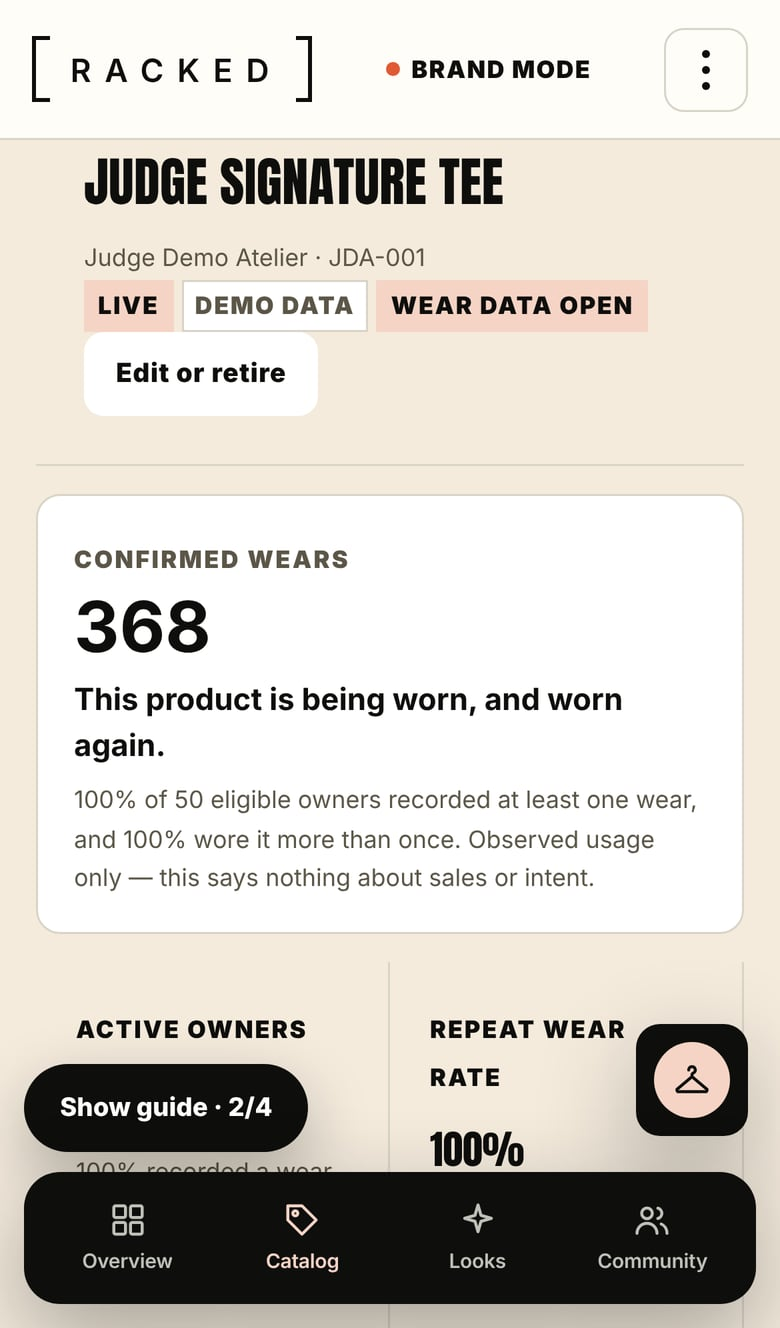
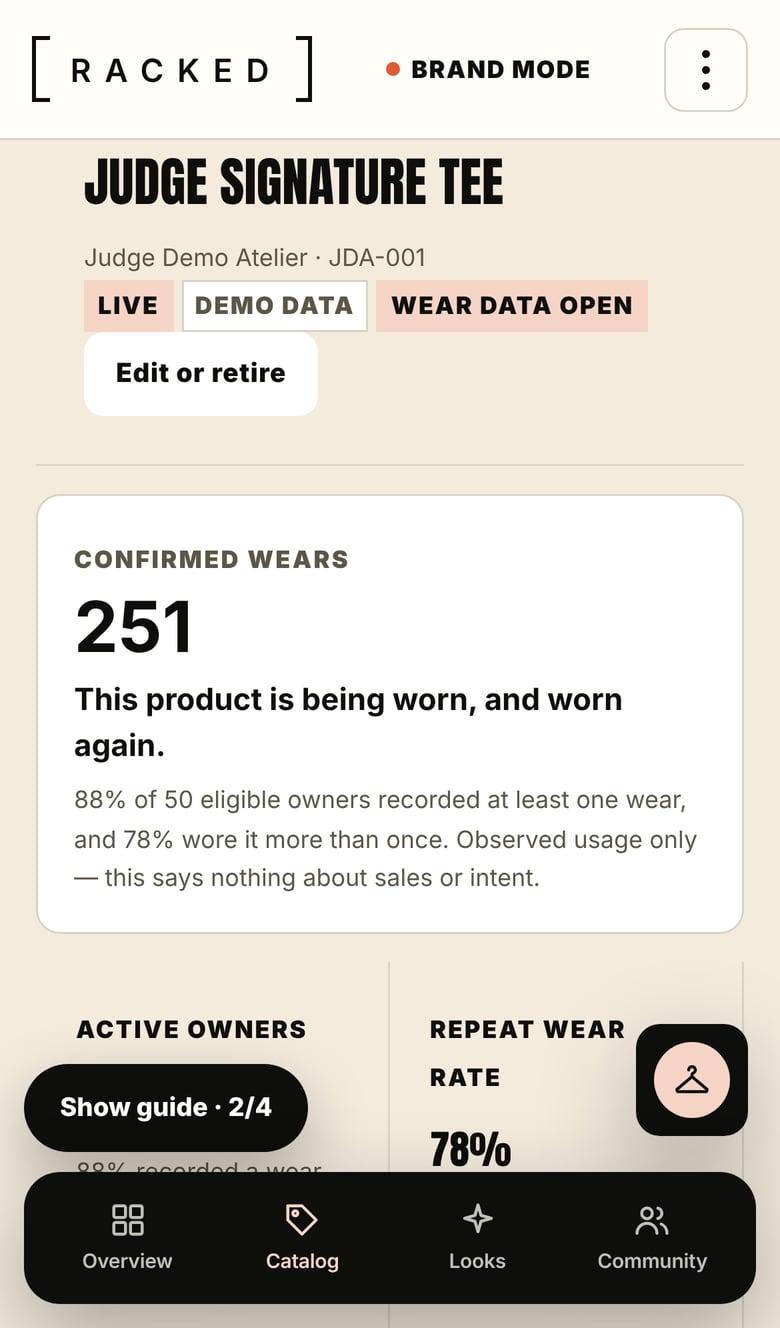
Demo tee reads like a real product; plain accuracy numbers for judges
- Seed: the released Judge Signature Tee no longer has every owner
  wearing it three or more times (100% active, 100% repeat). Its 50
  owners now split 6 never / 5 once / 9 two-three / 10 four-five /
  20 six or more: 88% active, 78% repeat, 251 confirmed wears. Every
  bucket holds at least 5 owners, so nothing is withheld, and the
  eight-week chart still clears the cell minimum on every weekday.
- Test: the released view, computed by the app's own release code,
  withholds nothing and reads 88% / 78%; the old "every owner wore it
  on three days" test now checks each wear is on its own day.
- JUDGES.md: accuracy as counts - 272 of the 293 photos the scan
  answered, of 300; the other 7 timed out to manual entry.
- Screenshot 3 retaken from the new seed; docs/judge-accounts.md
  describes the new spread.
- 1154 tests; coverage re-measured with test files excluded: 96.81%
  lines, 89.13% branches, 95.00% functions.

Claude-Session: https://claude.ai/code/session_014BCnoJTsgMvPRu3a3qyFiW

diff --git a/tests/judge-accounts.test.ts b/tests/judge-accounts.test.ts
@@ -10,7 +10,7 @@ import { rankCatalogCandidates, searchCatalog } from "../lib/catalog-match.ts";
 import { costPerWearLine } from "../lib/cost-per-wear.ts";
 import { matchBrandProduct } from "../lib/product-registry.ts";
 import { MINIMUM_COHORT_SIZE } from "../lib/privacy.ts";
-import { buildWearUsageAnalytics, MINIMUM_CELL_SIZE } from "../lib/metrics.ts";
+import { buildWearUsageAnalytics, MINIMUM_CELL_SIZE, releaseWearAnalytics } from "../lib/metrics.ts";
 import { JUDGE_CHART_RULE, judgeChartProblems, weeklyWearBuckets } from "../scripts/lib/judge-wear-window.mjs";
 import { JUDGE_PHOTO_DIR, JUDGE_PHOTO_SIZE, JUDGE_PHOTO_TYPE, judgePhoto, judgePhotoPath, productPhotoName } from "../scripts/lib/judge-photos.mjs";
 import type { BrandProductRegistration } from "../lib/platform-types.ts";
@@ -270,15 +270,19 @@ test("no seeded wear happens before its owner's account existed", () => {
   }
 });
 
-test("every owner of the released product has worn it on at least three different days", () => {
+test("every wear of the released product is on its own day, and most owners wear it", () => {
+  // Owners who never wore it are part of a believable cohort (see the realism test below); those who
+  // did each wore it on separate days, so a repeat wear is never two events on one date.
   const days = new Map<string, Set<string>>();
+  const events = new Map<string, number>();
   for (const wear of releasedWears) {
     const owner = String(wear.ownerPK);
     if (!days.has(owner)) days.set(owner, new Set());
     days.get(owner)!.add(String(wear.occurredAt).slice(0, 10));
+    events.set(owner, (events.get(owner) ?? 0) + 1);
   }
-  assert.equal(days.size, 50, "all fifty owners have wears");
-  for (const [owner, set] of days) assert.ok(set.size >= 3, `${owner} wore it on ${set.size} day(s)`);
+  assert.equal(days.size, 44, "44 of the 50 owners have worn it");
+  for (const [owner, set] of days) assert.equal(set.size, events.get(owner), `${owner} has two wears on one day`);
 });
 
 test("the chart helper buckets weeks exactly as the brand dashboard does", () => {
@@ -355,3 +359,20 @@ test("a plain dry run reads nothing, so it plans no deletions and needs no AWS",
   assert.match(seed, /ConditionExpression: "#tc = :yes"/, "every delete is conditional on testCohort");
 });
 
+
+test("the released product reads like a real one: not everyone wears it, and nothing is withheld", () => {
+  // Every seeded owner used to wear the tee three or more times, so the dashboard said 100% active
+  // and 100% repeat — a figure a judge reads as staged. The released view must look plausible and
+  // still release every figure: each wear bucket is empty or holds at least the minimum cell size.
+  const owners = items.filter((item) => item.GSI1PK === "PRODUCT#judge-product-released" && String(item.SK).startsWith("GARMENT#"));
+  const counts = owners.map((item) => Number(item.wearCount));
+  const dates = items.filter((item) => item.PK === "PRODUCT#judge-product-released" && String(item.SK).startsWith("WEAR#")).map((item) => String(item.occurredAt));
+  assert.equal(owners.length, 50);
+  assert.equal(counts.reduce((sum, value) => sum + value, 0), dates.length, "each wear count matches its events");
+  const released = releaseWearAnalytics(counts, dates, new Date(SEED_NOW));
+  assert.deepEqual(released.withheld, []);
+  assert.equal(released.engagementRate, 88);
+  assert.equal(released.repeatWearRate, 78);
+  for (const bucket of released.wearDistribution) assert.ok(bucket.owners === 0 || (bucket.owners ?? 0) >= MINIMUM_CELL_SIZE, bucket.label);
+  assert.ok(released.wearDistribution.every((bucket) => (bucket.owners ?? 0) > 0), "every bucket, including never worn, is represented");
+});

diff --git a/README.md b/README.md
@@ -13,7 +13,7 @@ I started Racked after seeing the consequences of clothing waste in Kenya. It wo
 
 | 1. Scan, then confirm | 2. Four owners: hidden | 3. Fifty owners: released |
 | :---: | :---: | :---: |
-| <img src="docs/images/scan-confirm.jpg" width="250" alt="Racked on a phone: one photo of a cream sherpa jacket becomes one proposed piece, with the heading 'Check each piece before it joins your closet' and an editable name."> | <img src="docs/images/brand-hidden-at-4-owners.jpg" width="250" alt="The brand view of Judge Limited Overshirt, tagged Too few owners, with a padlock and 'Not enough opted-in owners yet to say anything about wear.' No count is shown."> | <img src="docs/images/brand-released-at-50-owners.jpg" width="250" alt="The brand view of Judge Signature Tee, tagged Wear data open: 368 confirmed wears from 50 eligible owners."> |
+| <img src="docs/images/scan-confirm.jpg" width="250" alt="Racked on a phone: one photo of a cream sherpa jacket becomes one proposed piece, with the heading 'Check each piece before it joins your closet' and an editable name."> | <img src="docs/images/brand-hidden-at-4-owners.jpg" width="250" alt="The brand view of Judge Limited Overshirt, tagged Too few owners, with a padlock and 'Not enough opted-in owners yet to say anything about wear.' No count is shown."> | <img src="docs/images/brand-released-at-50-owners.jpg" width="250" alt="The brand view of Judge Signature Tee, tagged Wear data open: 251 confirmed wears; 88% of 50 eligible owners recorded a wear and 78% wore it more than once."> |
 | Nothing joins the wardrobe until the person checks it | Below 25 opted-in owners the brand sees nothing, not even the count | At 50 owners, totals are released; never a name, photo or closet |
 
 <sub>The demo's own synthetic accounts, on a local production build at phone size. For the scan picture the AI's answer was supplied locally instead of by Amazon Bedrock; the live demo calls Bedrock.</sub>
@@ -43,7 +43,7 @@ Not claimed: payment. Nothing is billed.
 | **Problem & relevance** | 20% | A sale is where a brand stops seeing; Racked measures confirmed wear, released only at 25 or more owners | [What this is](#what-this-is) · [Impact](#why-this-matters-more-wear-less-waste) · [One-page summary](docs/one-page-summary.md) |
 | **Functionality** | 25% | Two live flows: **scan → confirm → outfit**, and **anonymous cohort → wear evidence → campaign brief** | [Live app](https://main.d2iv0khybuuaeh.amplifyapp.com) · [Demo path](#five-minute-judge-path) · [Judge accounts](docs/judge-accounts.md) |
 | **AI integration & innovation** | 20% | **92.8%** category accuracy on 300 locked photos; Hanger, a tool-using agent: two blind raters preferred its outfit to a random one from the same closet **11 times**, the random one **once**, and 8 were ties or split votes; Brand Hanger sees released totals only | [How AI is used](#how-ai-is-used) · [Recognition](docs/evaluation-results-r2.md) · [Hanger holdout](#hanger-outfit-recommendations--blind-holdout-evaluation) · [AI use log](docs/ai-use-log.md) |
-| **Code, docs & GitHub** | 15% | **1153 tests** in 137 files; CI with accessibility checks and CodeQL; **231 merged PRs** counted on 2026-11-12 before this documentation merge; build log through Phase 131 | [Testing](#testing-and-ci) · [Architecture](#architecture-overview) · [PROGRESS.md](PROGRESS.md) |
+| **Code, docs & GitHub** | 15% | **1154 tests** in 137 files; CI with accessibility checks and CodeQL; **231 merged PRs** counted on 2026-11-12 before this documentation merge; build log through Phase 131 | [Testing](#testing-and-ci) · [Architecture](#architecture-overview) · [PROGRESS.md](PROGRESS.md) |
 | **UX & polish** | 10% | Mobile-first installable app; a step-by-step judge guide inside the demo; honest empty and suppressed states | [Open it on a phone](https://main.d2iv0khybuuaeh.amplifyapp.com) · [Brand UX review](docs/brand-ux-review.md) |
 | **Business impact** | 10% | Three real brands joined the pilot and uploaded products; one chose the $40 Pro plan in writing. Illustrative break-even: 20 excess units at a $25 landed cost | [Impact and assumptions](docs/sustainability-and-business-impact.md) · [Pricing](#business-model--pricing-proposed--not-currently-billed) |
 | **Bonus** | — | Consent, `k ≥ 25`, a daily enumeration budget, encrypted storage, two-step sign-in for brands, owner-scoped deletion | [Privacy and security](#privacy-and-security) · [Security testing](#security-testing-and-hardening) · [SECURITY.md](SECURITY.md) |
@@ -344,9 +344,9 @@ Racked holds photos of what people own, and real brands use it, so protecting th
 
 [`.github/workflows/ci.yml`](.github/workflows/ci.yml) runs a production dependency audit, lint, type check, the full test suite, a production build and [accessibility checks](docs/accessibility.md) (axe on the public pages and, through a fixture-only harness, the signed-in screens, plus keyboard-only passes of both demo flows) on every push and pull request; [`codeql.yml`](.github/workflows/codeql.yml) adds CodeQL. `main` is protected: every change arrives by pull request, and `verify`, `accessibility` and CodeQL (`Analyze JavaScript and TypeScript`) must pass; force pushes and deletion are blocked (read back from GitHub's public API on 2026-11-01).
 
-**1153 passing tests** in 137 files (verified 2026-11-13). Tests named `REGRESSION:` reproduce a bug found in real use. A local attack harness drives a production build against local DynamoDB to check sign-in, roles, consent and the 25-owner rule ([docs/security-verification.md](docs/security-verification.md)). Documentation checks recompute the numbers in this README from their sources ([`tests/readme-numbers.test.ts`](tests/readme-numbers.test.ts)).
+**1154 passing tests** in 137 files (verified 2026-11-14). Tests named `REGRESSION:` reproduce a bug found in real use. A local attack harness drives a production build against local DynamoDB to check sign-in, roles, consent and the 25-owner rule ([docs/security-verification.md](docs/security-verification.md)). Documentation checks recompute the numbers in this README from their sources ([`tests/readme-numbers.test.ts`](tests/readme-numbers.test.ts)).
 
-Coverage over the whole suite (2026-11-13): **96.81% of lines, 89.14% of branches, 95.00% of functions**; `privacy.ts` 100% and the session guard 97.96% of branches. Coverage shows what the tests run, not that the scoring is right.
+Coverage over the whole suite (2026-11-14): **96.81% of lines, 89.13% of branches, 95.00% of functions**; `privacy.ts` 100% and the session guard 97.96% of branches. Coverage shows what the tests run, not that the scoring is right.
 
 | What is protected | Tests |
 | --- | --- |
@@ -362,7 +362,7 @@ app/            Pages and API routes — app/api/* is the entire backend
 components/     The interface: wardrobe, photo intake, Looks, Hanger, brand dashboard
 lib/            Domain logic: AI agents, outfit builder, stylist knowledge, privacy gate, registry
 lib/server/     All DynamoDB and S3 access, with every ownership check
-tests/          137 test files, 1153 tests (node --test)
+tests/          137 test files, 1154 tests (node --test)
 scripts/        Judge and demo seeds, verification, evaluation, owner-run tools (dry run by default)
 infra/          CloudFormation: DynamoDB, S3, least-privilege Amplify compute role
 docs/           Judge guides, architecture, privacy, AI use log, evaluation protocol
@@ -433,6 +433,6 @@ Nothing needs installing to try Racked: open the live app and use the demo accou
 
 ---
 
-**Last updated:** 2026-11-13 — the judge guide is now a corner dock that spotlights each step's button; an 8% referral commission joins the proposed pricing and every purchase screen shows one button; test totals and coverage re-measured
+**Last updated:** 2026-11-14 — three phone screenshots up top; the judge guide leads with one click and keeps named sign-in as a fallback; the Hanger result in plain words; the demo tee's owners now include some who never or rarely wore it; test totals and coverage re-measured
 **Repository:** https://github.com/manof1color/racked-wardrobe-intelligence
 **Competition:** CUA Busch School AI Vibe Coding Contest, Fall 2026

diff --git a/docs/competition-checklist.md b/docs/competition-checklist.md
@@ -62,10 +62,10 @@ This is the judge’s index for the CUA rubric.
 - [x] Sliding-window rate limits on registration, sign-in, AI endpoints, brand metrics, and Community writes (verified live: the eleventh rapid sign-in attempt returns HTTP 429).
 - [x] Every Amazon Bedrock call carries a bounded request timeout, so a stalled provider degrades into the bounded crop, manual-review analysis, or grounded non-model reply instead of an unresolved request; a source-level regression test fails if a Bedrock command is ever sent without one.
 - [x] Installable responsive PWA. Where the browser allows it (Chrome and Edge on Android and desktop), Add Racked opens the real one-tap install dialog, and the install event is kept even when it fires before the page hydrates. iPhone has no install API, so it gets accurate iOS 26 steps with the Share icon shown; apps' built-in browsers (TikTok, Instagram) get an Open in Safari or Chrome handoff, since they cannot add to a Home Screen at all.
-- [x] 1153 automated tests and lint pass (re-verified 2026-11-13); the clean CI gate runs type check, tests, production build, production dependency audit, and CodeQL before merge.
+- [x] 1154 automated tests and lint pass (re-verified 2026-11-14); the clean CI gate runs type check, tests, production build, production dependency audit, and CodeQL before merge.
 - [x] Synthetic demo images are generated from one offline, deterministic illustrator shared by both seeds: distinct category silhouettes, subtype-specific pants/shoes/accessories, visible `SYNTHETIC DEMO` marking, no embedded photographs, and a raster-size regression test. Existing hosted images require a seed rerun to receive the new pixels; no product or wear records change.
 
-- [x] Measured coverage (2026-11-13), not asserted rigour: 96.81% of lines, 89.14% of branches, and 95.00% of functions across the suite. Recreate reaches 98.85% branch coverage, sessions 97.96%, and outfit ranking 94.53%. The Recreate engine's bands, tie-breaks, and uncertainty rules are pinned to exact numbers in `tests/recreate-look-scoring.test.ts`.
+- [x] Measured coverage (2026-11-14), not asserted rigour: 96.81% of lines, 89.13% of branches, and 95.00% of functions across the suite. Recreate reaches 98.85% branch coverage, sessions 97.96%, and outfit ranking 94.53%. The Recreate engine's bands, tie-breaks, and uncertainty rules are pinned to exact numbers in `tests/recreate-look-scoring.test.ts`.
 
 - [x] Hanger is a continuing conversation, not a stateless prompt: turns, controlled preferences, previously suggested pieces, and the latest active outfit are stored on the account, resumable across devices, and clearable by the person. The context window is budgeted explicitly — newest complete turns that fit, with older ones counted and declared rather than invented — and a remembered preference can only be a term the taxonomy and that wardrobe already use.
 

diff --git a/PROGRESS.md b/PROGRESS.md
@@ -727,4 +727,4 @@ A judge-facing summary of how Racked was built. Historical phases are sourced fr
 
 ## Continuous verification
 
-The phase entries above record their historical verification. The current working branch carries **1153 passing tests** in 137 files (re-verified 2026-11-13), including session branch coverage at 97.96%. Recognition remains the synchronous scan's only remote vision stage; names are normalized, footwear estimates use a controlled generic reference, and crop IoU is not recognition accuracy. Pair-aware recognition still needs a physical-phone production retest on a crowded real shoe rack, and recognition accuracy on the live scan path is now measured (92.8% category correct on 300 fresh, locked independent photos after one fix, up from 89.7%; docs/evaluation-results-r2.md). SES-backed reset delivery, a live production-table match run, and a Brand-session return-path check remain explicit environment follow-ups. No new live-account or Bedrock smoke test was performed in this documentation pass.
+The phase entries above record their historical verification. The current working branch carries **1154 passing tests** in 137 files (re-verified 2026-11-14), including session branch coverage at 97.96%. Recognition remains the synchronous scan's only remote vision stage; names are normalized, footwear estimates use a controlled generic reference, and crop IoU is not recognition accuracy. Pair-aware recognition still needs a physical-phone production retest on a crowded real shoe rack, and recognition accuracy on the live scan path is now measured (92.8% category correct on 300 fresh, locked independent photos after one fix, up from 89.7%; docs/evaluation-results-r2.md). SES-backed reset delivery, a live production-table match run, and a Brand-session return-path check remain explicit environment follow-ups. No new live-account or Bedrock smoke test was performed in this documentation pass.

diff --git a/JUDGES.md b/JUDGES.md
@@ -52,7 +52,7 @@ Their passwords are sent privately with the submission and are never in this pub
 | Which steps call an AI model, and which are plain code? | [What calls a model](README.md#what-calls-a-model-and-what-does-not) |
 | How is privacy enforced? | [Privacy and security](README.md#privacy-and-security) · [SECURITY.md](SECURITY.md) |
 | How was it attacked and hardened? | [Security testing and hardening](README.md#security-testing-and-hardening) |
-| How accurate is the AI? | **92.8% garment category** on 300 locked, independent photos, up from 89.7% after one measured fix — [results](docs/evaluation-results-r2.md) |
+| How accurate is the AI? | Of 300 independent photos whose answers were locked before the test, the scan answered 293 and put **272 in the right garment category (92.8%)**; the other 7 timed out and the person entered the piece by hand. One measured fix raised it from 89.7% — [results](docs/evaluation-results-r2.md) |
 | What is measured, and what is not claimed? | [Evidence](README.md#evidence-and-what-is-not-claimed) |
 | Is any real money involved? | No. Shoppers buy on the brand's own site, and fictional products end in a $0.00 demo purchase that shows the 8% commission split. Racked's Stripe test checkout is switched off: [how purchases work](README.md#purchases-the-brands-own-site) |
 | Do the tests pass? | [CI runs](https://github.com/manof1color/racked-wardrobe-intelligence/actions/workflows/ci.yml) · [Testing](README.md#testing-and-ci) |

diff --git a/docs/judge-accounts.md b/docs/judge-accounts.md
@@ -102,8 +102,10 @@ Every date the seed writes is counted back from the day it runs: the accounts ar
 and the wears, looks and public activity are recent. That is what keeps `Judge Signature Tee`'s
 eight-week chart full; with a fixed date it went blank once the weeks moved past it. The chart is
 the current week and the seven before it, and a week with fewer than 5 wears is withheld, so the
-seed gives every owner of the released product a wear every week for three to twelve weeks back,
-each owner on at least three different days.
+seed gives most owners of the released product a wear every week for up to twelve weeks back, each
+wear on its own day. Not every owner wears it: of the 50, 6 never have and 5 once, so the dashboard
+reads 88% active and 78% repeat rather than a staged 100%. Every wear bucket holds at least 5
+owners, so nothing on the dashboard is withheld.
 
 Re-seed **once after this change merges**, and again on **18 or 19 November**, just before judging.
 `pnpm verify:judge` fails if the newest wear on the released product is more than 7 days old, or if

diff --git a/docs/one-page-summary.md b/docs/one-page-summary.md
@@ -47,7 +47,7 @@ shoppers buy on the brand's own site.
 - **Privacy enforced in code, not policy:** consent gates account creation, `k ≥ 25` suppression runs
   before aggregates are computed, and a DynamoDB-backed enumeration budget caps how many distinct
   products one brand can query so aggregates cannot be differenced apart.
-- **1153 tests and a CI gate** — lint, type check, tests, production build, dependency audit, accessibility checks, CodeQL —
+- **1154 tests and a CI gate** — lint, type check, tests, production build, dependency audit, accessibility checks, CodeQL —
   on every pull request, with a build log through Phase 123 (the Phase 85 photo audit is owner-run and not executed against AWS; tests verified 2026-11-13).
 
 ## Lessons learned

diff --git a/docs/demo-script.md b/docs/demo-script.md
@@ -170,7 +170,7 @@ Judges score here. Answer in two sentences, then stop.
 | The demo bag does not complete | Skip it. Say the purchase happens on the brand's own site, and show the brand dashboard's **sent to your store** readout instead. |
 | You are at 4:00 with two segments left | Skip "how it was built" and close. Never let the red card interrupt the close. |
 
-**Verification snapshot (2026-11-13):** 1153 tests in 137 files. Read the current README scorecard during the demo rather than memorising this dated count.
+**Verification snapshot (2026-11-14):** 1154 tests in 137 files. Read the current README scorecard during the demo rather than memorising this dated count.
 
 ## Claims discipline
 
